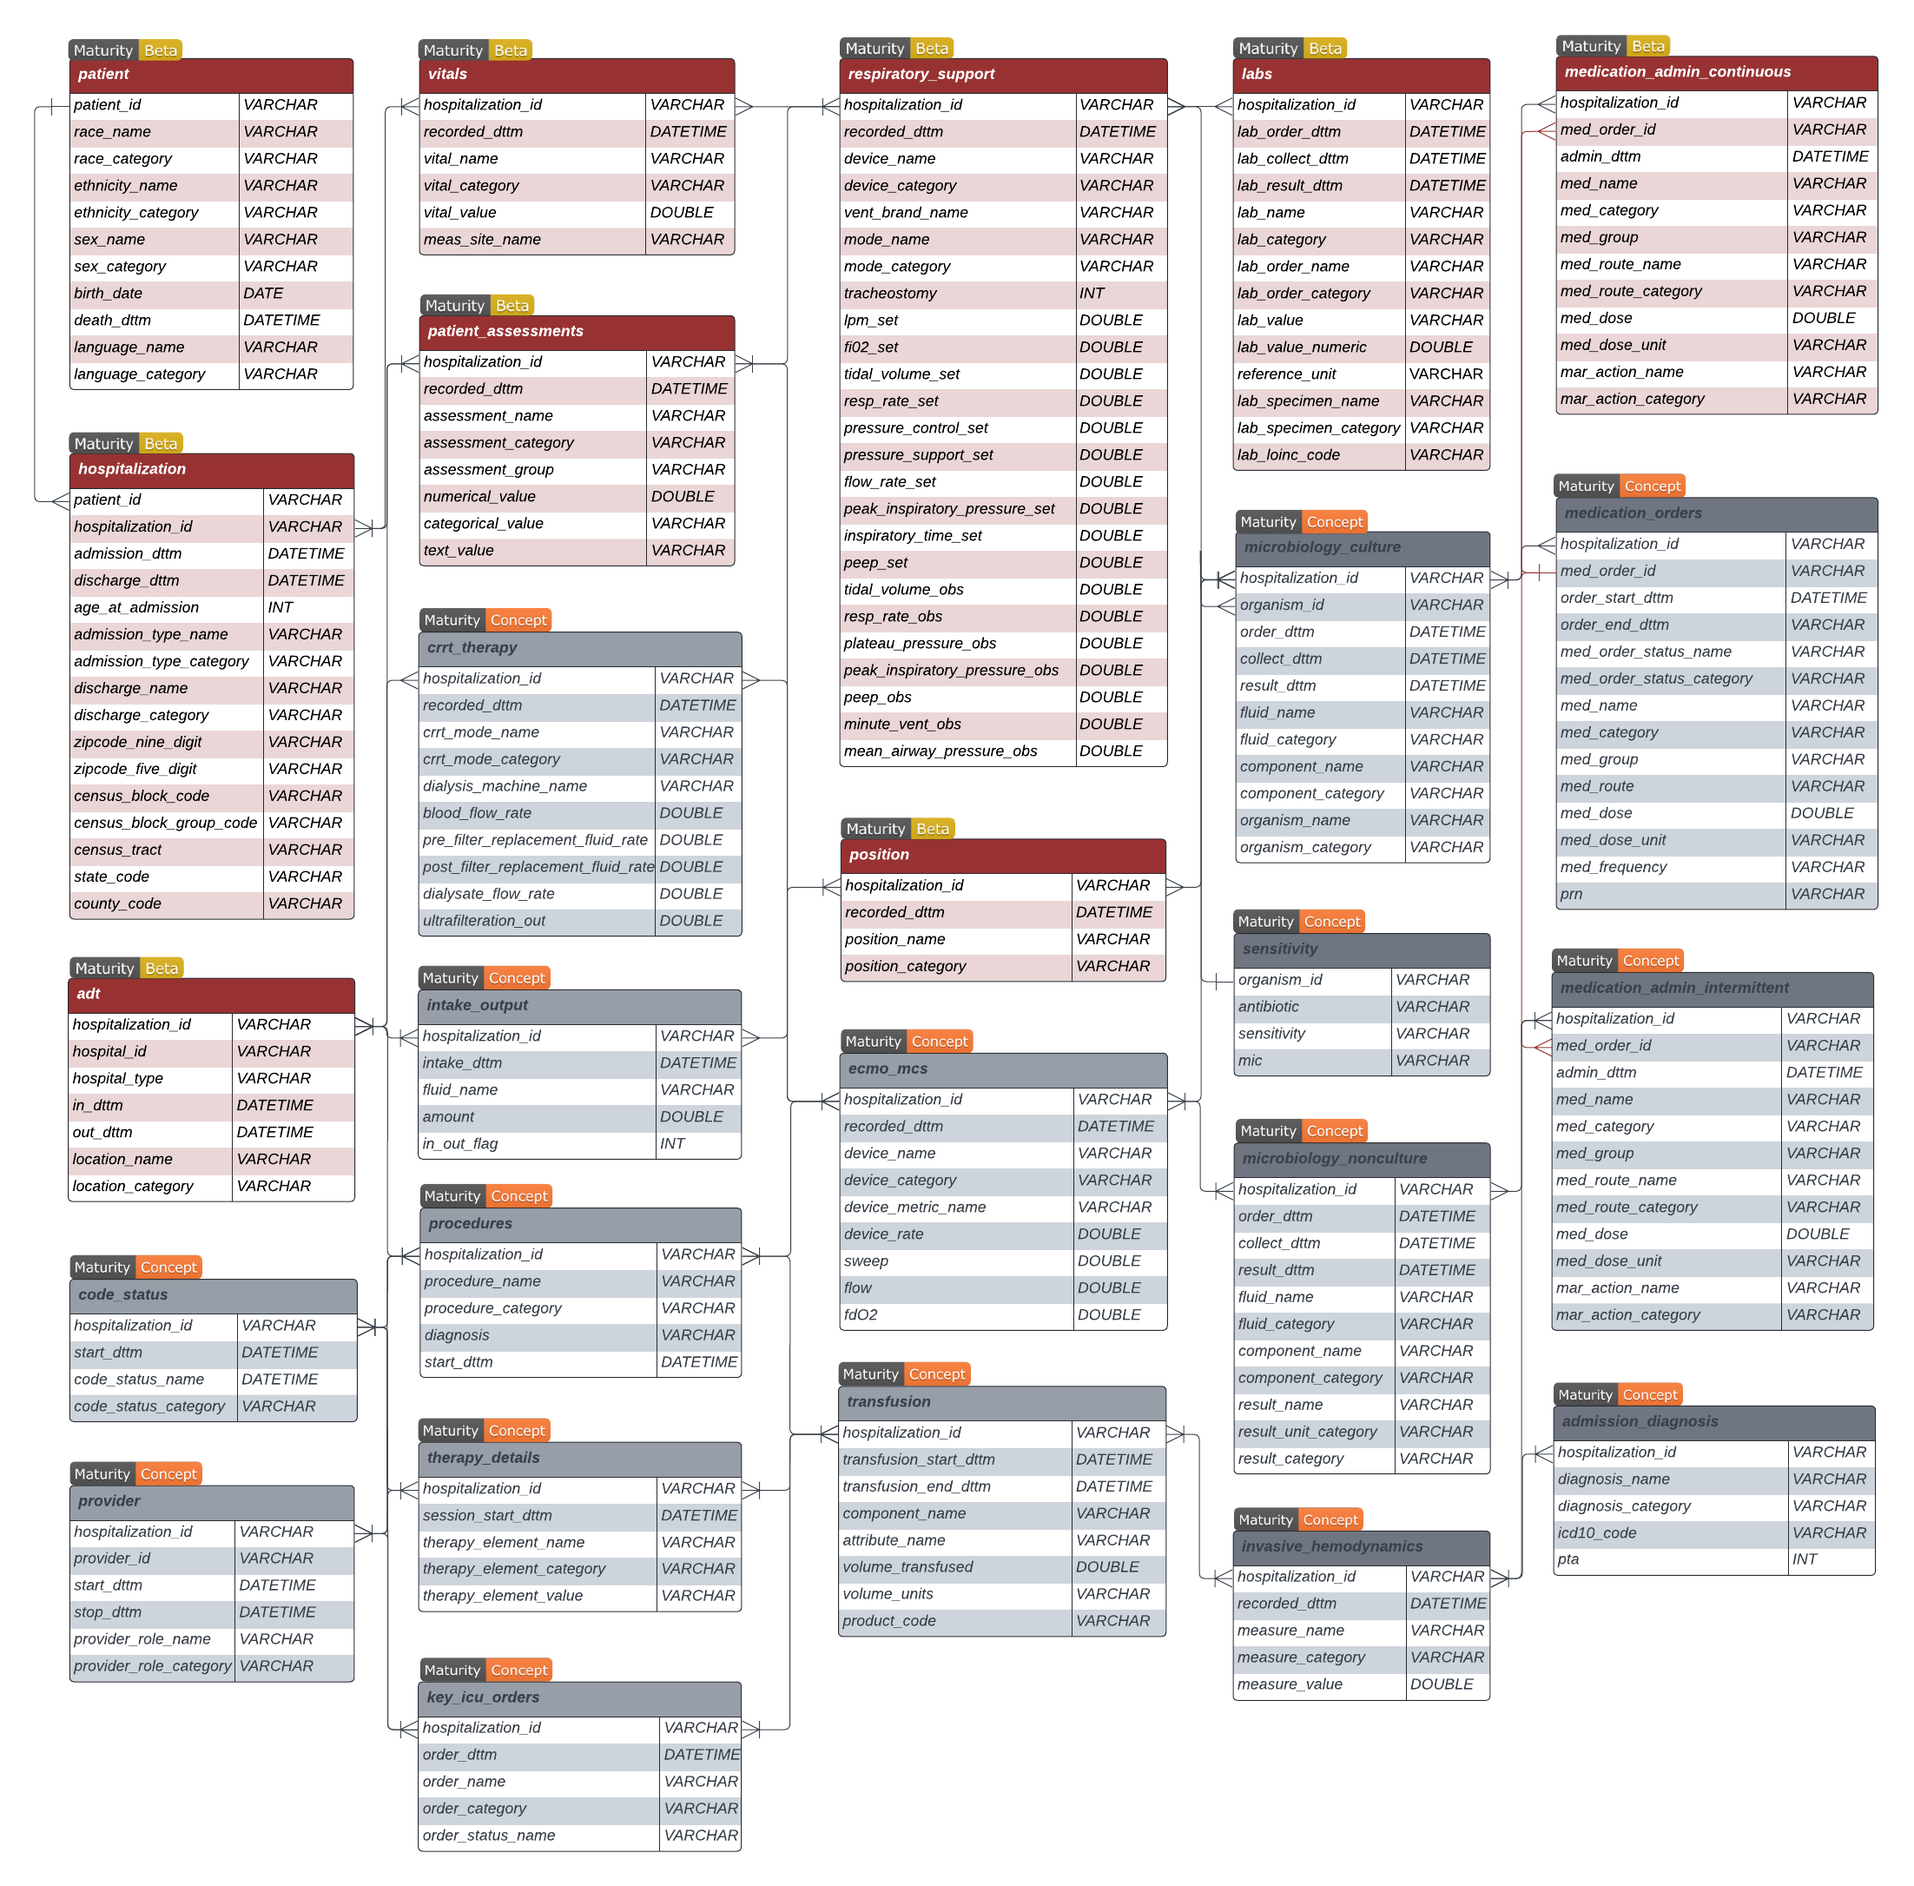
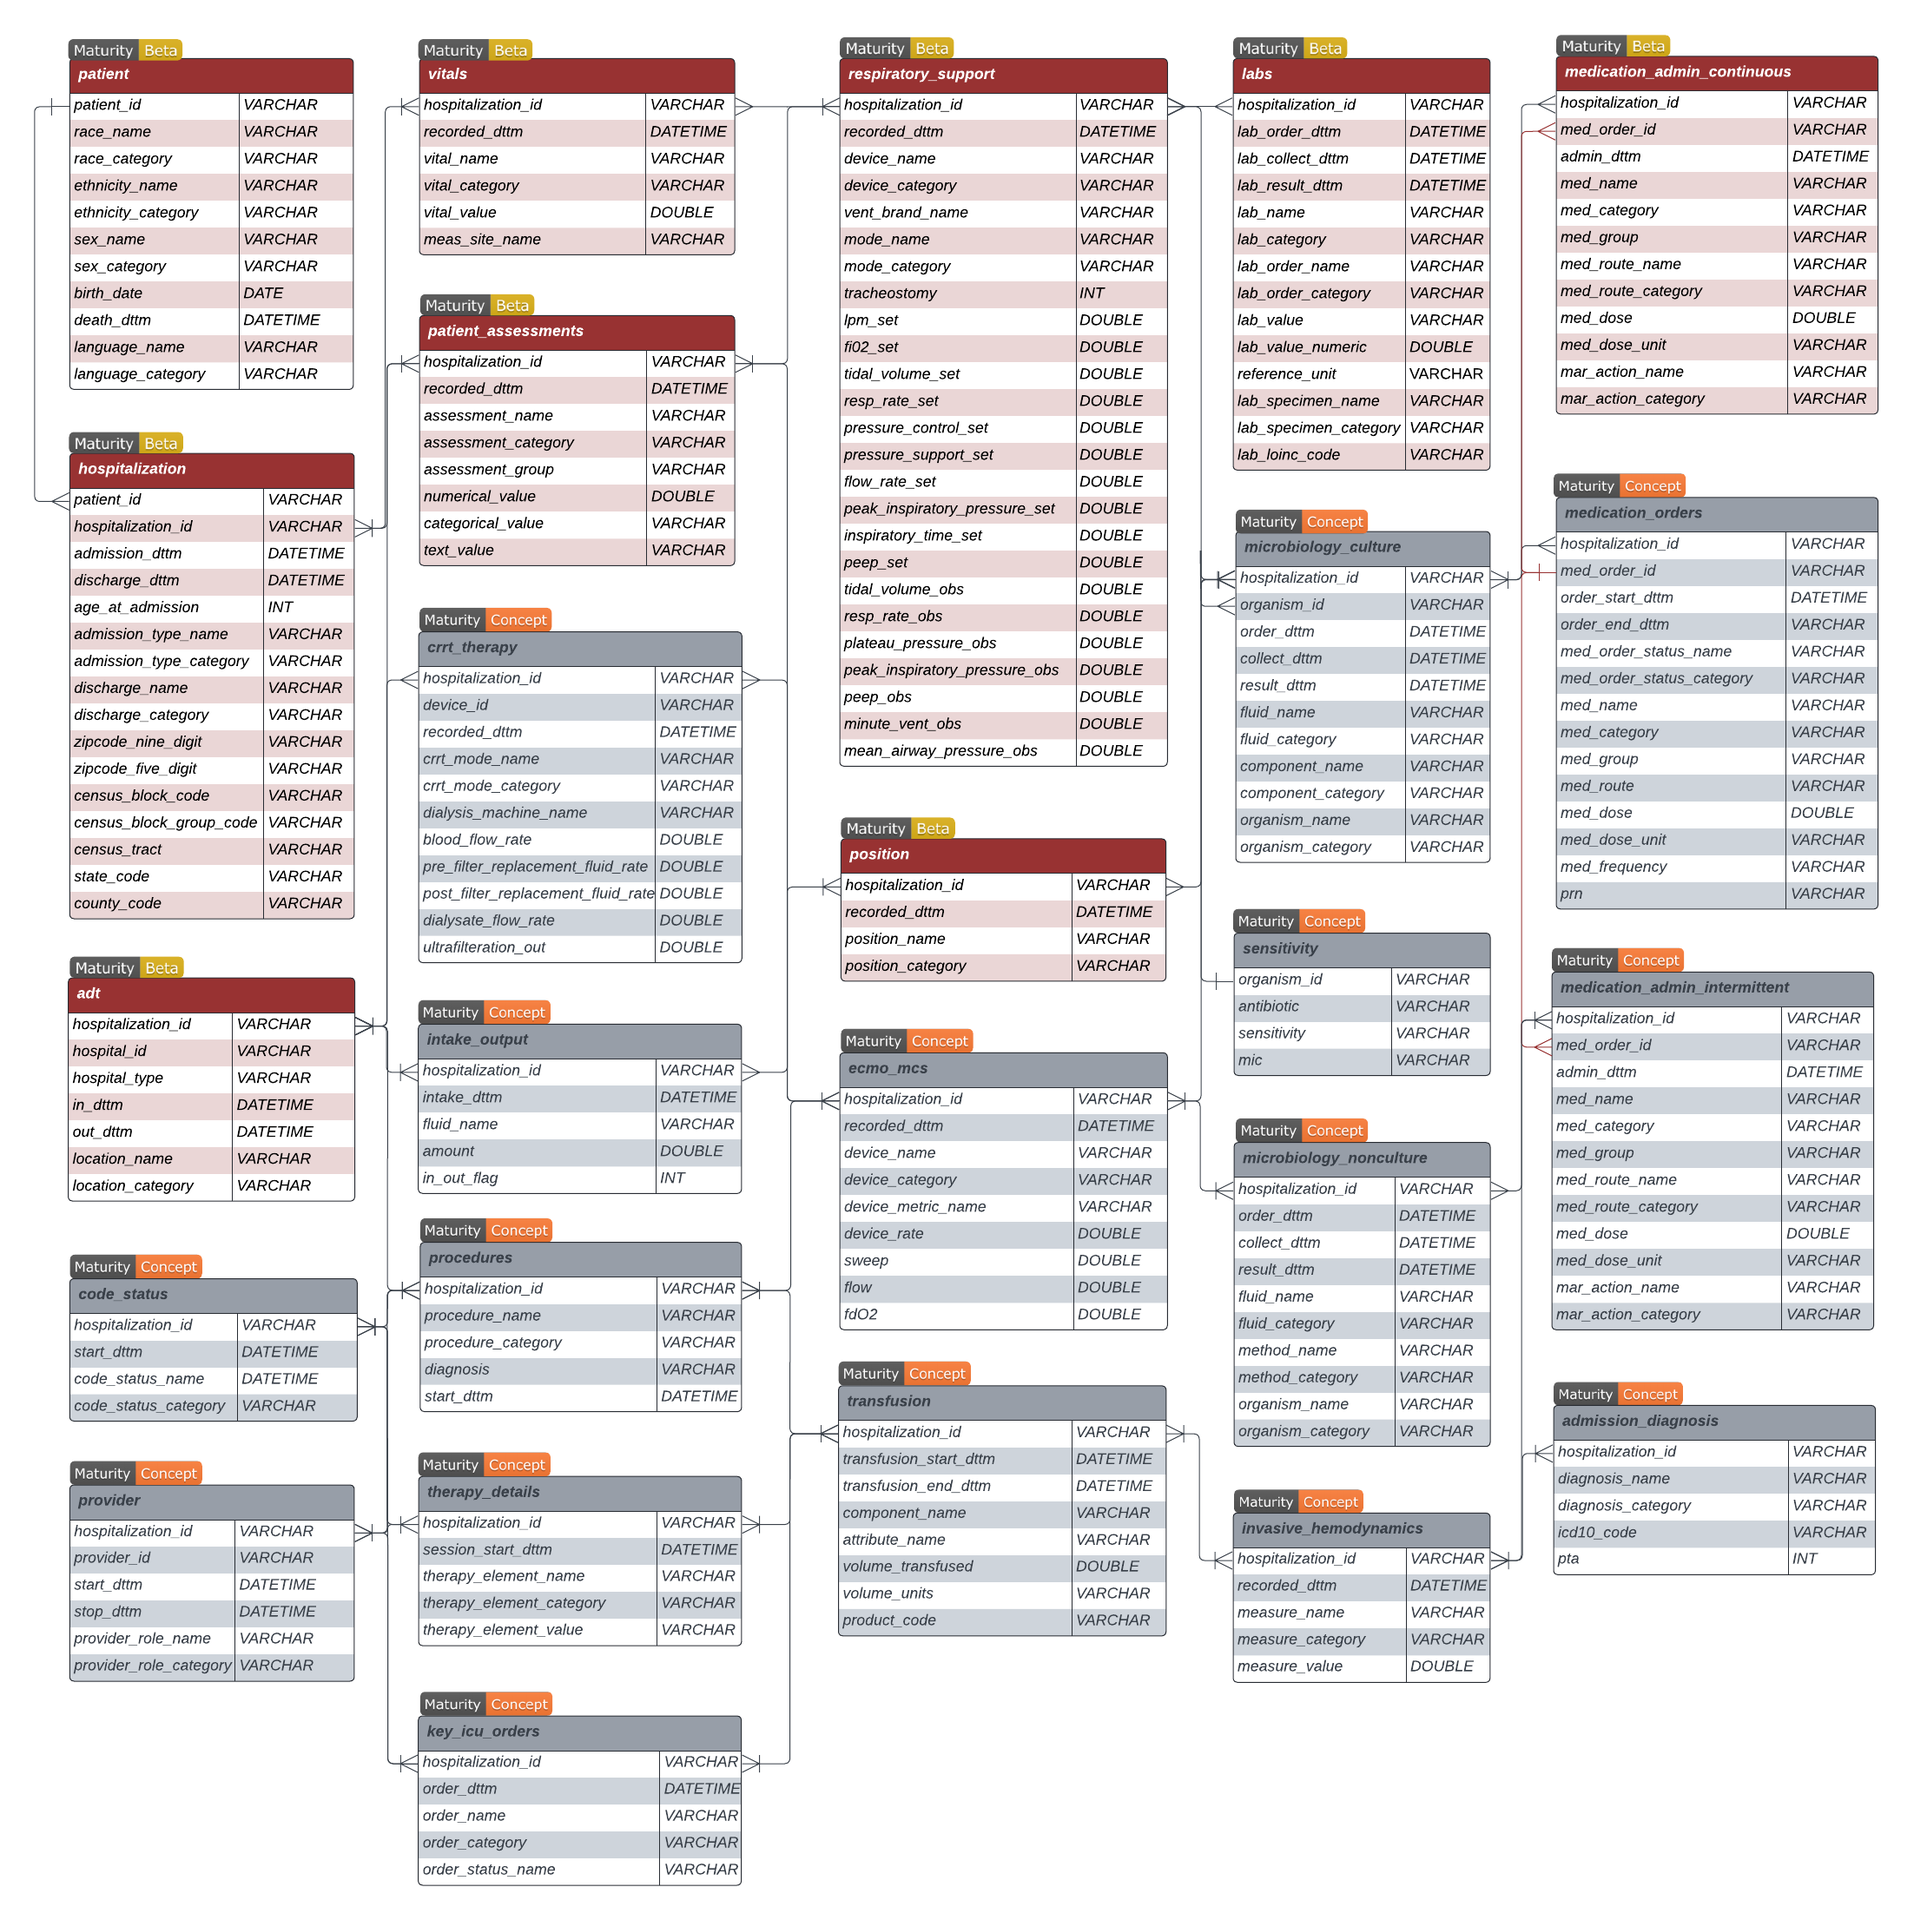
CRRT edits [#70](https://github.com/Common-Longitudinal-ICU-data-Format/CLIF/issues/70)

diff --git a/docs/data-dictionary/data-dictionary-2.0.0.html b/docs/data-dictionary/data-dictionary-2.0.0.html
@@ -2386,46 +2386,51 @@ ul.task-list li input[type="checkbox"] {
 <td>Unique identifier for hospitalization episode</td>
 </tr>
 <tr class="even">
+<td>device_id</td>
+<td>VARCHAR</td>
+<td>Unique identifier for dialysis machine</td>
+</tr>
+<tr class="odd">
 <td>recorded_dttm</td>
 <td>DATETIME</td>
 <td>Timestamp when CRRT parameters were recorded</td>
 </tr>
-<tr class="odd">
+<tr class="even">
 <td>crrt_mode_name</td>
 <td>VARCHAR</td>
 <td>Name of CRRT mode (e.g., “CVVHDF”)</td>
 </tr>
-<tr class="even">
+<tr class="odd">
 <td>crrt_mode_category</td>
 <td>VARCHAR</td>
 <td><code>scuf</code>, <code>cvvh</code>, <code>cvvhd</code>, <code>cvvhdf</code></td>
 </tr>
-<tr class="odd">
+<tr class="even">
 <td>dialysis_machine_name</td>
 <td>VARCHAR</td>
 <td>Unique identifier for the dialysis machine</td>
 </tr>
-<tr class="even">
+<tr class="odd">
 <td>blood_flow_rate</td>
 <td>DOUBLE</td>
 <td>Rate of blood flow through the CRRT circuit (mL/hr)</td>
 </tr>
-<tr class="odd">
+<tr class="even">
 <td>pre_filter_replacement_fluid_rate</td>
 <td>DOUBLE</td>
 <td>Rate of pre-filter replacement fluid infusion (mL/hr)</td>
 </tr>
-<tr class="even">
+<tr class="odd">
 <td>post_filter_replacement_fluid_rate</td>
 <td>DOUBLE</td>
 <td>Rate of post-filter replacement fluid infusion (mL/hr)</td>
 </tr>
-<tr class="odd">
+<tr class="even">
 <td>dialysate_flow_rate</td>
 <td>DOUBLE</td>
 <td>Flow rate of dialysate solution (mL/hr)</td>
 </tr>
-<tr class="even">
+<tr class="odd">
 <td>ultrafiltration_out</td>
 <td>DOUBLE</td>
 <td>Net ultrafiltration output (mL)</td>
@@ -2500,10 +2505,10 @@ ul.task-list li input[type="checkbox"] {
 <table class="table-striped table-hover table">
 <colgroup>
 <col style="width: 8%">
+<col style="width: 9%">
 <col style="width: 10%">
 <col style="width: 6%">
 <col style="width: 8%">
-<col style="width: 9%">
 <col style="width: 7%">
 <col style="width: 13%">
 <col style="width: 14%">
@@ -2513,10 +2518,10 @@ ul.task-list li input[type="checkbox"] {
 <thead>
 <tr class="header">
 <th>hospitalization_id</th>
+<th>device_id</th>
 <th>recorded_dttm</th>
 <th>crrt_mode_name</th>
 <th>crrt_mode_category</th>
-<th>dialysis_machine_name</th>
 <th>blood_flow_rate</th>
 <th>pre_filter_replacement_fluid_rate</th>
 <th>post_filter_replacement_fluid_rate</th>
@@ -2527,10 +2532,10 @@ ul.task-list li input[type="checkbox"] {
 <tbody>
 <tr class="odd">
 <td>201</td>
+<td>J3</td>
 <td>2024-02-15 07:00:00+00:00</td>
 <td>CVVHDF</td>
 <td>CVVHDF</td>
-<td>J3</td>
 <td>200.0</td>
 <td>1000.0</td>
 <td>500.0</td>
@@ -2539,10 +2544,10 @@ ul.task-list li input[type="checkbox"] {
 </tr>
 <tr class="even">
 <td>202</td>
+<td>J7</td>
 <td>2024-02-16 09:15:00+00:00</td>
 <td>CVVH</td>
 <td>CVVH</td>
-<td>J7</td>
 <td>180.0</td>
 <td>1200.0</td>
 <td>300.0</td>
@@ -2551,10 +2556,10 @@ ul.task-list li input[type="checkbox"] {
 </tr>
 <tr class="odd">
 <td>203</td>
+<td>J11</td>
 <td>2024-02-17 11:45:00+00:00</td>
 <td>SCUF</td>
 <td>SCUF</td>
-<td>J11</td>
 <td>150.0</td>
 <td>NA</td>
 <td>NA</td>

diff --git a/docs/data-dictionary/data-dictionary-2.1.0.html b/docs/data-dictionary/data-dictionary-2.1.0.html
@@ -419,46 +419,51 @@ ul.task-list li input[type="checkbox"] {
 <td>Unique identifier for hospitalization episode</td>
 </tr>
 <tr class="even">
+<td>device_id</td>
+<td>VARCHAR</td>
+<td>Unique identifier for dialysis machine</td>
+</tr>
+<tr class="odd">
 <td>recorded_dttm</td>
 <td>DATETIME</td>
 <td>Timestamp when CRRT parameters were recorded</td>
 </tr>
-<tr class="odd">
+<tr class="even">
 <td>crrt_mode_name</td>
 <td>VARCHAR</td>
 <td>Name of CRRT mode (e.g., “CVVHDF”)</td>
 </tr>
-<tr class="even">
+<tr class="odd">
 <td>crrt_mode_category</td>
 <td>VARCHAR</td>
 <td><code>scuf</code>, <code>cvvh</code>, <code>cvvhd</code>, <code>cvvhdf</code></td>
 </tr>
-<tr class="odd">
+<tr class="even">
 <td>dialysis_machine_name</td>
 <td>VARCHAR</td>
 <td>Unique identifier for the dialysis machine</td>
 </tr>
-<tr class="even">
+<tr class="odd">
 <td>blood_flow_rate</td>
 <td>DOUBLE</td>
 <td>Rate of blood flow through the CRRT circuit (mL/hr)</td>
 </tr>
-<tr class="odd">
+<tr class="even">
 <td>pre_filter_replacement_fluid_rate</td>
 <td>DOUBLE</td>
 <td>Rate of pre-filter replacement fluid infusion (mL/hr)</td>
 </tr>
-<tr class="even">
+<tr class="odd">
 <td>post_filter_replacement_fluid_rate</td>
 <td>DOUBLE</td>
 <td>Rate of post-filter replacement fluid infusion (mL/hr)</td>
 </tr>
-<tr class="odd">
+<tr class="even">
 <td>dialysate_flow_rate</td>
 <td>DOUBLE</td>
 <td>Flow rate of dialysate solution (mL/hr)</td>
 </tr>
-<tr class="even">
+<tr class="odd">
 <td>ultrafiltration_out</td>
 <td>DOUBLE</td>
 <td>Net ultrafiltration output (mL)</td>
@@ -533,10 +538,10 @@ ul.task-list li input[type="checkbox"] {
 <table class="table-striped table-hover table">
 <colgroup>
 <col style="width: 8%">
+<col style="width: 9%">
 <col style="width: 10%">
 <col style="width: 6%">
 <col style="width: 8%">
-<col style="width: 9%">
 <col style="width: 7%">
 <col style="width: 13%">
 <col style="width: 14%">
@@ -546,10 +551,10 @@ ul.task-list li input[type="checkbox"] {
 <thead>
 <tr class="header">
 <th>hospitalization_id</th>
+<th>device_id</th>
 <th>recorded_dttm</th>
 <th>crrt_mode_name</th>
 <th>crrt_mode_category</th>
-<th>dialysis_machine_name</th>
 <th>blood_flow_rate</th>
 <th>pre_filter_replacement_fluid_rate</th>
 <th>post_filter_replacement_fluid_rate</th>
@@ -560,10 +565,10 @@ ul.task-list li input[type="checkbox"] {
 <tbody>
 <tr class="odd">
 <td>201</td>
+<td>J3</td>
 <td>2024-02-15 07:00:00+00:00</td>
 <td>CVVHDF</td>
 <td>CVVHDF</td>
-<td>J3</td>
 <td>200.0</td>
 <td>1000.0</td>
 <td>500.0</td>
@@ -572,10 +577,10 @@ ul.task-list li input[type="checkbox"] {
 </tr>
 <tr class="even">
 <td>202</td>
+<td>J7</td>
 <td>2024-02-16 09:15:00+00:00</td>
 <td>CVVH</td>
 <td>CVVH</td>
-<td>J7</td>
 <td>180.0</td>
 <td>1200.0</td>
 <td>300.0</td>
@@ -584,10 +589,10 @@ ul.task-list li input[type="checkbox"] {
 </tr>
 <tr class="odd">
 <td>203</td>
+<td>J11</td>
 <td>2024-02-17 11:45:00+00:00</td>
 <td>SCUF</td>
 <td>SCUF</td>
-<td>J11</td>
 <td>150.0</td>
 <td>NA</td>
 <td>NA</td>
